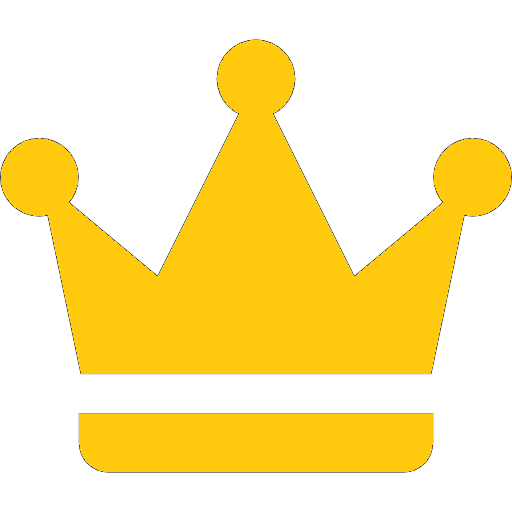
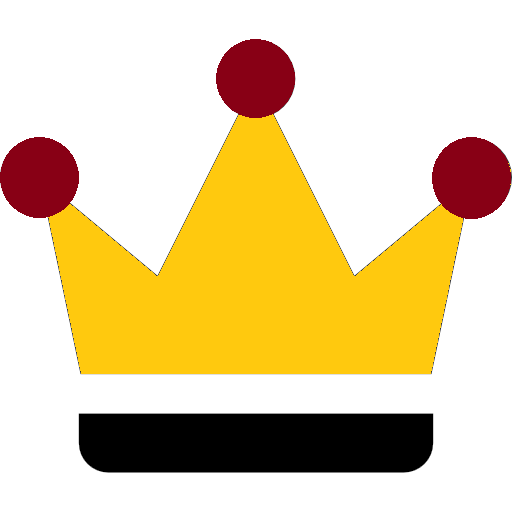
asdf

diff --git a/src/js/CurrentSeason/currentSeason.js b/src/js/CurrentSeason/currentSeason.js
@@ -586,7 +586,7 @@ function createMatchupListElement(weekNumber) {
 
 function createMatchupWeekHighScorerImg(){
     var img = document.createElement("img");
-    img.setAttribute('src', '../src/static/images/crown-2.png');
+    img.setAttribute('src', '../src/static/images/crown-icon.png');
     img.setAttribute('class', "custom-highscorer");
     
     return img;
